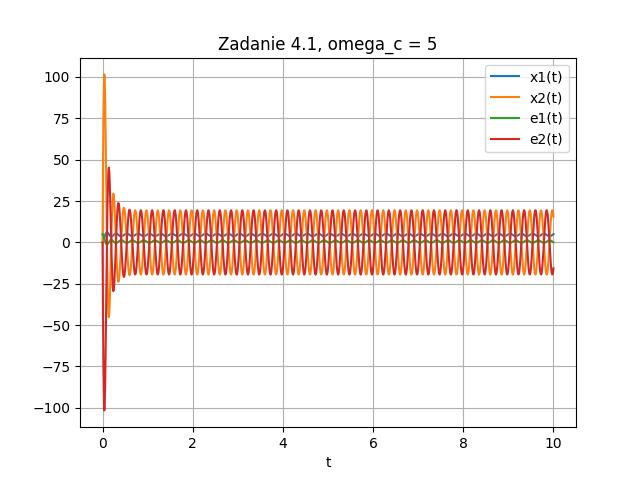
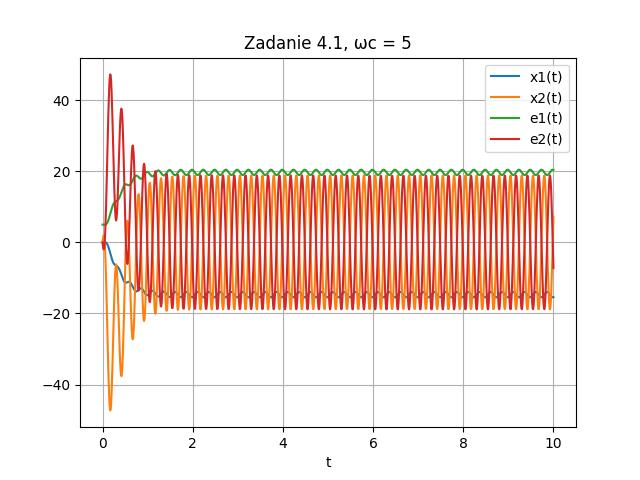
g

diff --git a/Python/USO12.py b/Python/USO12.py
@@ -51,8 +51,10 @@ def Zadanie2():
     X0 = np.array([np.pi/4,0])
     y_ss=solve_ivp(model_ss,[0,10],X0,t_eval=t,args=(0,))
     y_ivp=solve_ivp(model1,[0,10],X0,t_eval=t,args=(0,))
-    plt.plot(t,y_ivp.y[0],'g-',label='x1_ivp')
-    plt.plot(t,y_ivp.y[1],'y-',label='x2_ivp')
+    plt.plot(t, y_ivp.y[0],'g-',label='x1')
+    plt.plot(t, y_ivp.y[1],'y-',label='x2')
+    plt.plot(t, y_ss.y[0],label='x1_lin')
+    plt.plot(t, y_ss.y[1], label='x2_lin')
     plt.xlabel('t')
     plt.legend(loc='best')
     plt.grid()
@@ -241,43 +243,8 @@ def Zadanie3():
     plt.grid()
     plt.show()
 
-def Pendulum():
-    l=1
-    J=1
-    d=0.5
-    g=9.81
-    m=9
-    t=np.linspace(0,10,1000)
-    X0 = np.array([np.pi/4,0])
-    y_ss=solve_ivp(model_ss,[0,10],X0,t_eval=t,args=(0,))
-    y_ivp=solve_ivp(model1,[0,10],X0,t_eval=t,args=(0,))
-    plt.plot(t,y_ivp.y[0],'g-',label='x1_ivp')
-    plt.plot(t,y_ivp.y[1],'y-',label='x2_ivp')
-    plt.xlabel('t')
-    plt.legend(loc='best')
-    plt.grid()
-    plt.title('Zadanie 2.1, x1(0)=[pi/4,0]')
-    plt.show()
-    #Przebiegi niby po częsci się pokrywają ale aproksymacja ucieka do nieskonczonosci
-    #Powodem tego jest aproksymowany punkt pracy, przez który druga pochodna 
-    # zmiennej stanu (przyśpieszenie) ma dodatnią część mgl/J i rośnie w nieskończoność.
-
-    # Zadanie 2.2
-    A = np.array([[0,1],[m*g*l/J,-d/J]])
-    B = np.array([[0],[1/J]])
-    R = np.eye(1)
-    Q = np.eye(2)
-    P_ricatti=scipy.linalg.solve_continuous_are(A,B,Q,R)
-    K=np.linalg.inv(R) @ B.T @ P_ricatti
-    X0_vec=[np.pi - 0.1, np.pi - 0.3,np.pi - 0.5,np.pi/2]
-    for new_x0 in X0_vec:
-        X0 = np.array([new_x0,0])
-        y_ricatti=solve_ivp(model_ricatti,[0,10],X0,t_eval=t,args=(0,K))
-        plt.plot(t,y_ricatti.y[0],'g-',label='x1_ricatti')
-        plt.plot(t,y_ricatti.y[1],'y-',label='x2_ricatti')
-        plt.xlabel('t')
-
 if __name__ == "__main__":
-    Pendulum()
+    Zadanie2()
+    Zadanie3()
 
 

diff --git a/Teoria_sterowania/TS5.py b/Teoria_sterowania/TS5.py
@@ -85,7 +85,7 @@ def Zadanie3():
         plt.xlabel('t')
         plt.legend(loc='best')
         plt.grid()
-        plt.title('Zadanie 3, omega_c = ' + str(omega_c))
+        plt.title('Zadanie 3, ωc = ' + str(omega_c))
         plt.savefig('Zadanie3_'+str(i)+'.jpg')
         plt.show()
         #Stabilizacja na 5 volt
@@ -100,11 +100,11 @@ def model_dyn_Zpomiarowe(y,t,k1,k2):
     x1 = y[0]
     x2 = y[1]
     dxdt = np.array([[x1], [x2]])
-    e1 = y[2]
-    e2 = y[3]
+    e1 = 5-x1
+    e2 = 0-x2
     dedt = np.array([[e1], [e2]])
     # Wejścia
-    uFB = k1*e1 + k2*e2 + k1*np.sin(4*np.pi*t)**2 + k2*np.cos(4*np.pi*t)**2
+    uFB = k1*(e1+np.sin(4*np.pi*t)**2) + k2*(e2 + np.sin(4*np.pi*t)**2)
     uD = 5/Vin
     u = uFB + uD
     #Macierze Stanu
@@ -142,7 +142,7 @@ def Zadanie41():
         plt.xlabel('t')
         plt.legend(loc='best')
         plt.grid()
-        plt.title('Zadanie 4.1, omega_c = ' + str(omega_c))
+        plt.title('Zadanie 4.1, ωc = ' + str(omega_c))
         plt.savefig('Zadanie41_'+str(i)+'.jpg')
         plt.show()
         #Stabilizacja na 5 volt
@@ -157,8 +157,8 @@ def model_dyn_Zprocesu(y,t,k1,k2):
     x1 = y[0]
     x2 = y[1]
     dxdt = np.array([[x1], [x2]])
-    e1 = y[2]
-    e2 = y[3]
+    e1 = 0-x1
+    e2 = 0-x2
     dedt = np.array([[e1], [e2]])
     # Wejścia
     uFB = k1*e1 + k2*e2
@@ -199,7 +199,7 @@ def Zadanie42():
         plt.xlabel('t')
         plt.legend(loc='best')
         plt.grid()
-        plt.title('Zadanie 4.2, omega_c = ' + str(omega_c))
+        plt.title('Zadanie 4.2, ωc = ' + str(omega_c))
         plt.savefig('Zadanie42_'+str(i)+'.jpg')
         plt.show()
         #Stabilizacja na 5 volt
